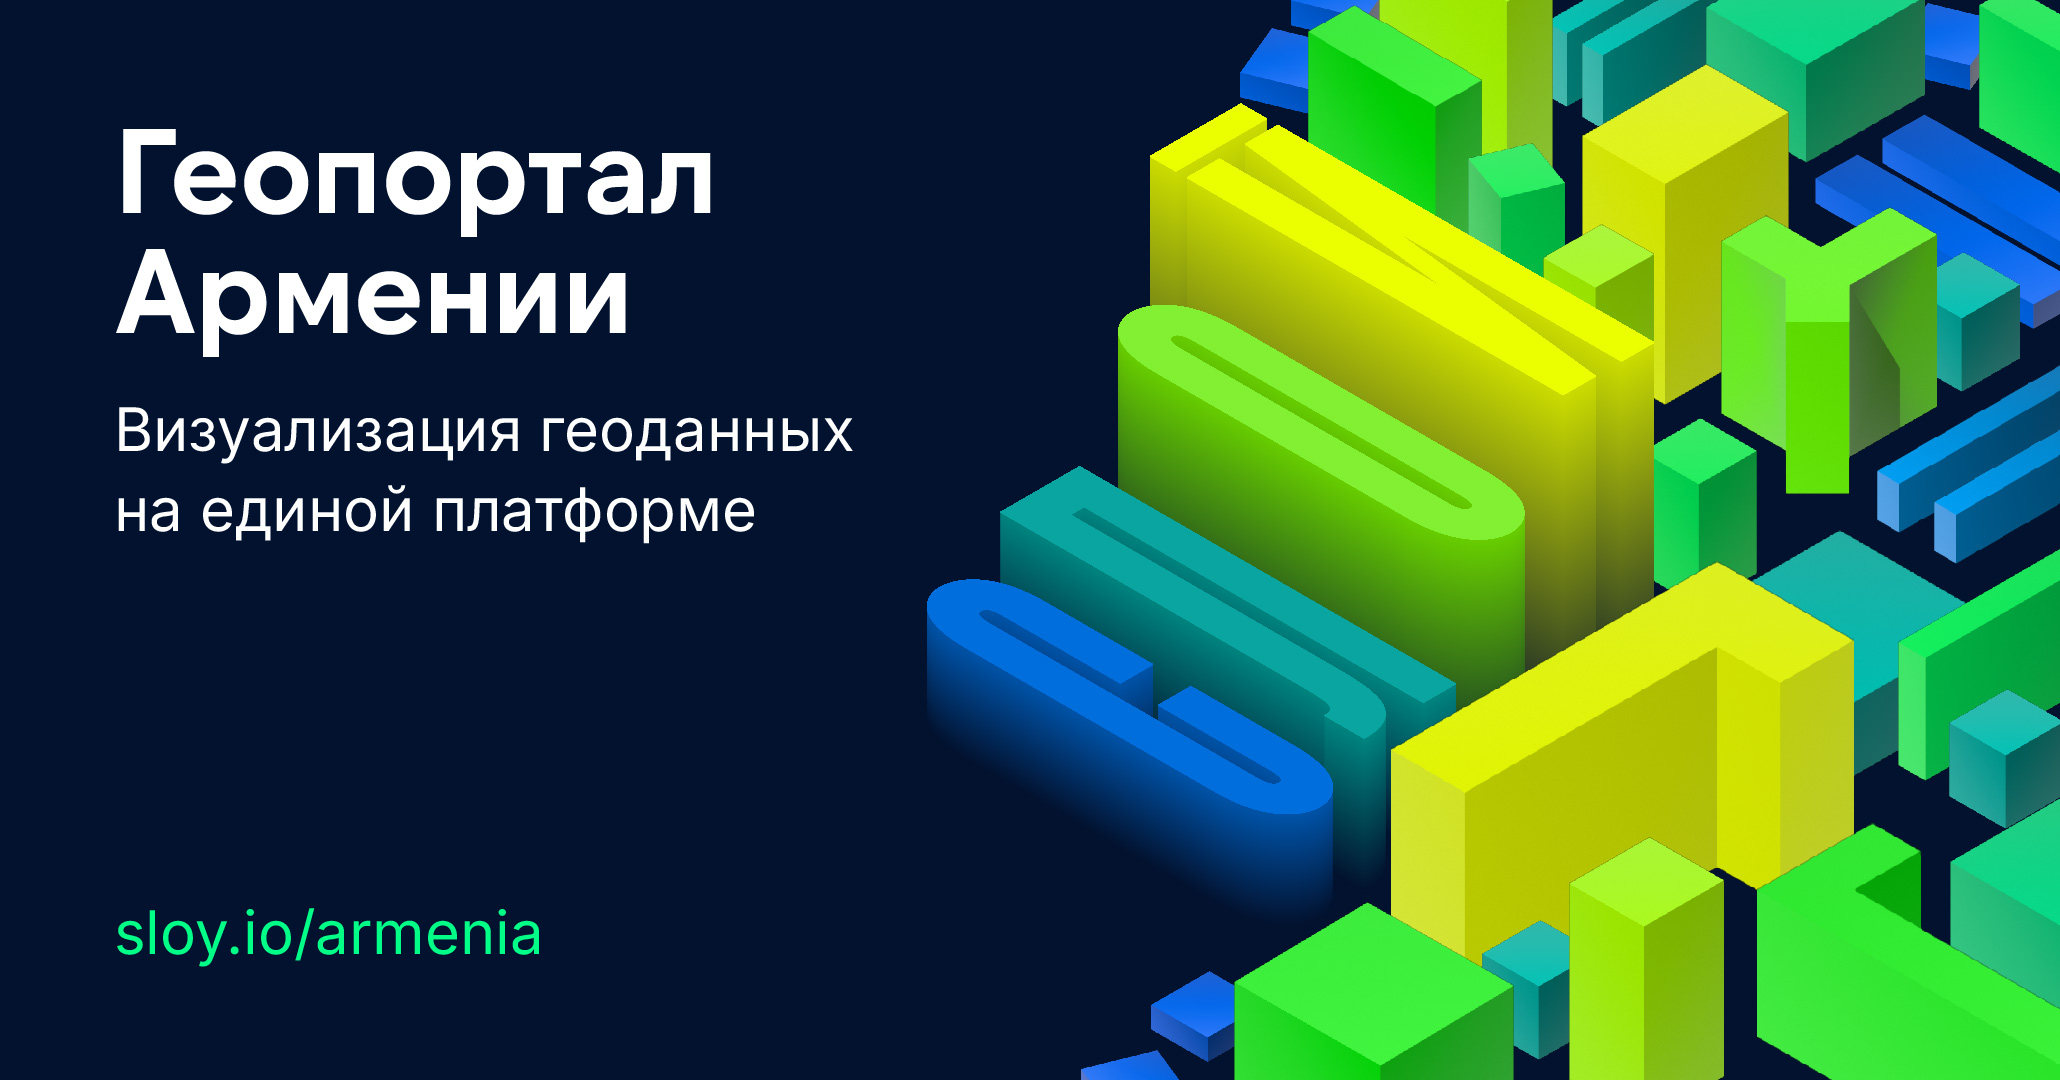
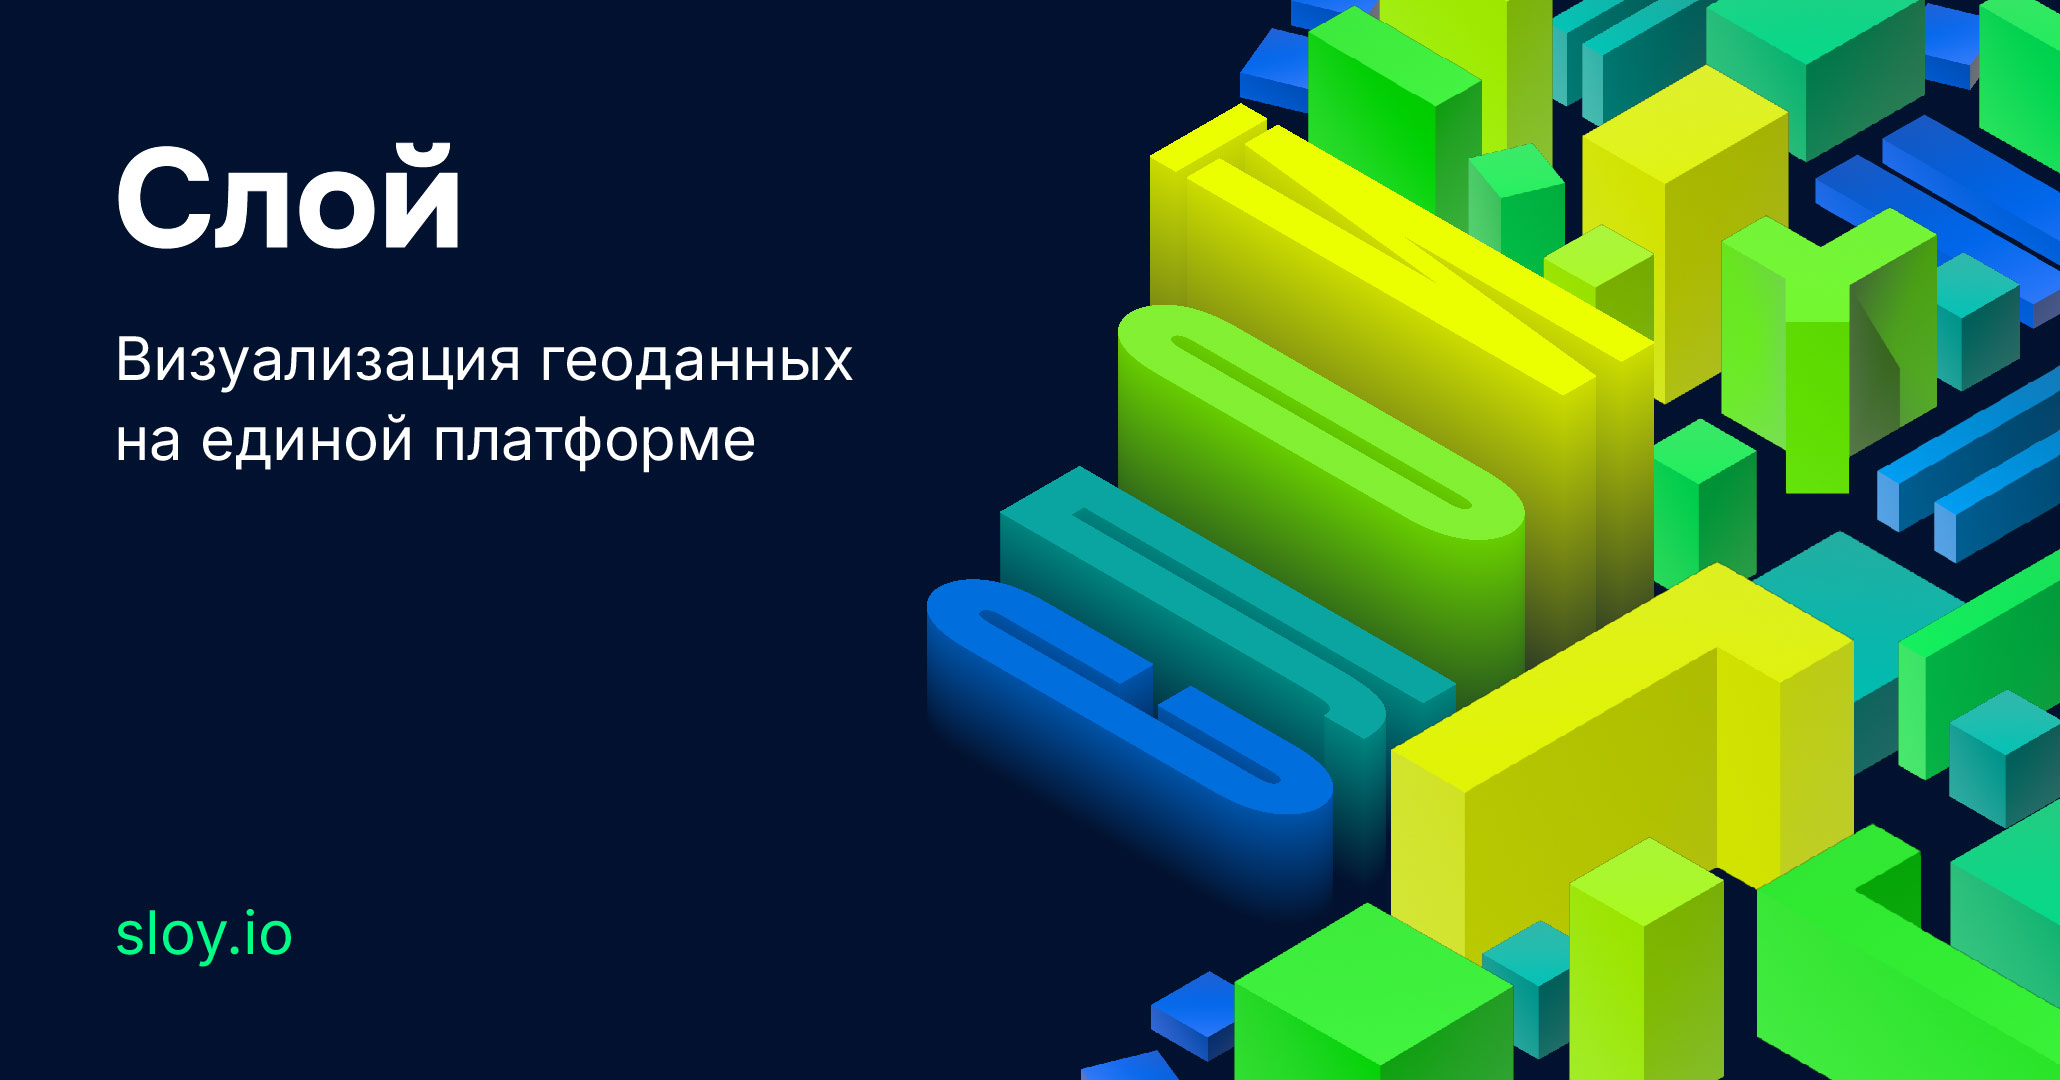
update opengraph

Changed region(s): [[0.0311, 0.1222, 0.435, 0.4278], [0.0621, 0.4583, 0.3728, 0.4889], [0.1243, 0.8556, 0.2796, 0.8861]]

diff --git a/static/nnovgorod/index.html b/static/nnovgorod/index.html
@@ -16,7 +16,7 @@
       property="og:description"
       content="The platform for aggregating, visualizing and exploring geodata"
     />
-    <meta property="og:image" content="sloy-opengraph-en.jpg" />
+    <meta property="og:image" content="sloy-opengraph-ru.jpg" />
 
     <meta property="twitter:card" content="summary_large_image" />
     <meta property="twitter:url" content="https://sloy.io/nnovgorod" />
@@ -25,7 +25,7 @@
       property="twitter:description"
       content="The platform for aggregating, visualizing and exploring geodata"
     />
-    <meta property="twitter:image" content="sloy-opengraph-en.jpg" />
+    <meta property="twitter:image" content="sloy-opengraph-ru.jpg" />
 
     <link rel="icon" href="/static/nnovgorod/favicon.ico" />
     <link

diff --git a/static/gorodets/index.html b/static/gorodets/index.html
@@ -16,7 +16,7 @@
       property="og:description"
       content="The platform for aggregating, visualizing and exploring geodata"
     />
-    <meta property="og:image" content="sloy-opengraph-en.jpg" />
+    <meta property="og:image" content="sloy-opengraph-ru.jpg" />
 
     <meta property="twitter:card" content="summary_large_image" />
     <meta property="twitter:url" content="https://sloy.io/gorodets" />
@@ -25,7 +25,7 @@
       property="twitter:description"
       content="The platform for aggregating, visualizing and exploring geodata"
     />
-    <meta property="twitter:image" content="sloy-opengraph-en.jpg" />
+    <meta property="twitter:image" content="sloy-opengraph-ru.jpg" />
 
     <link rel="icon" href="/static/gorodets/favicon.ico" />
     <link
